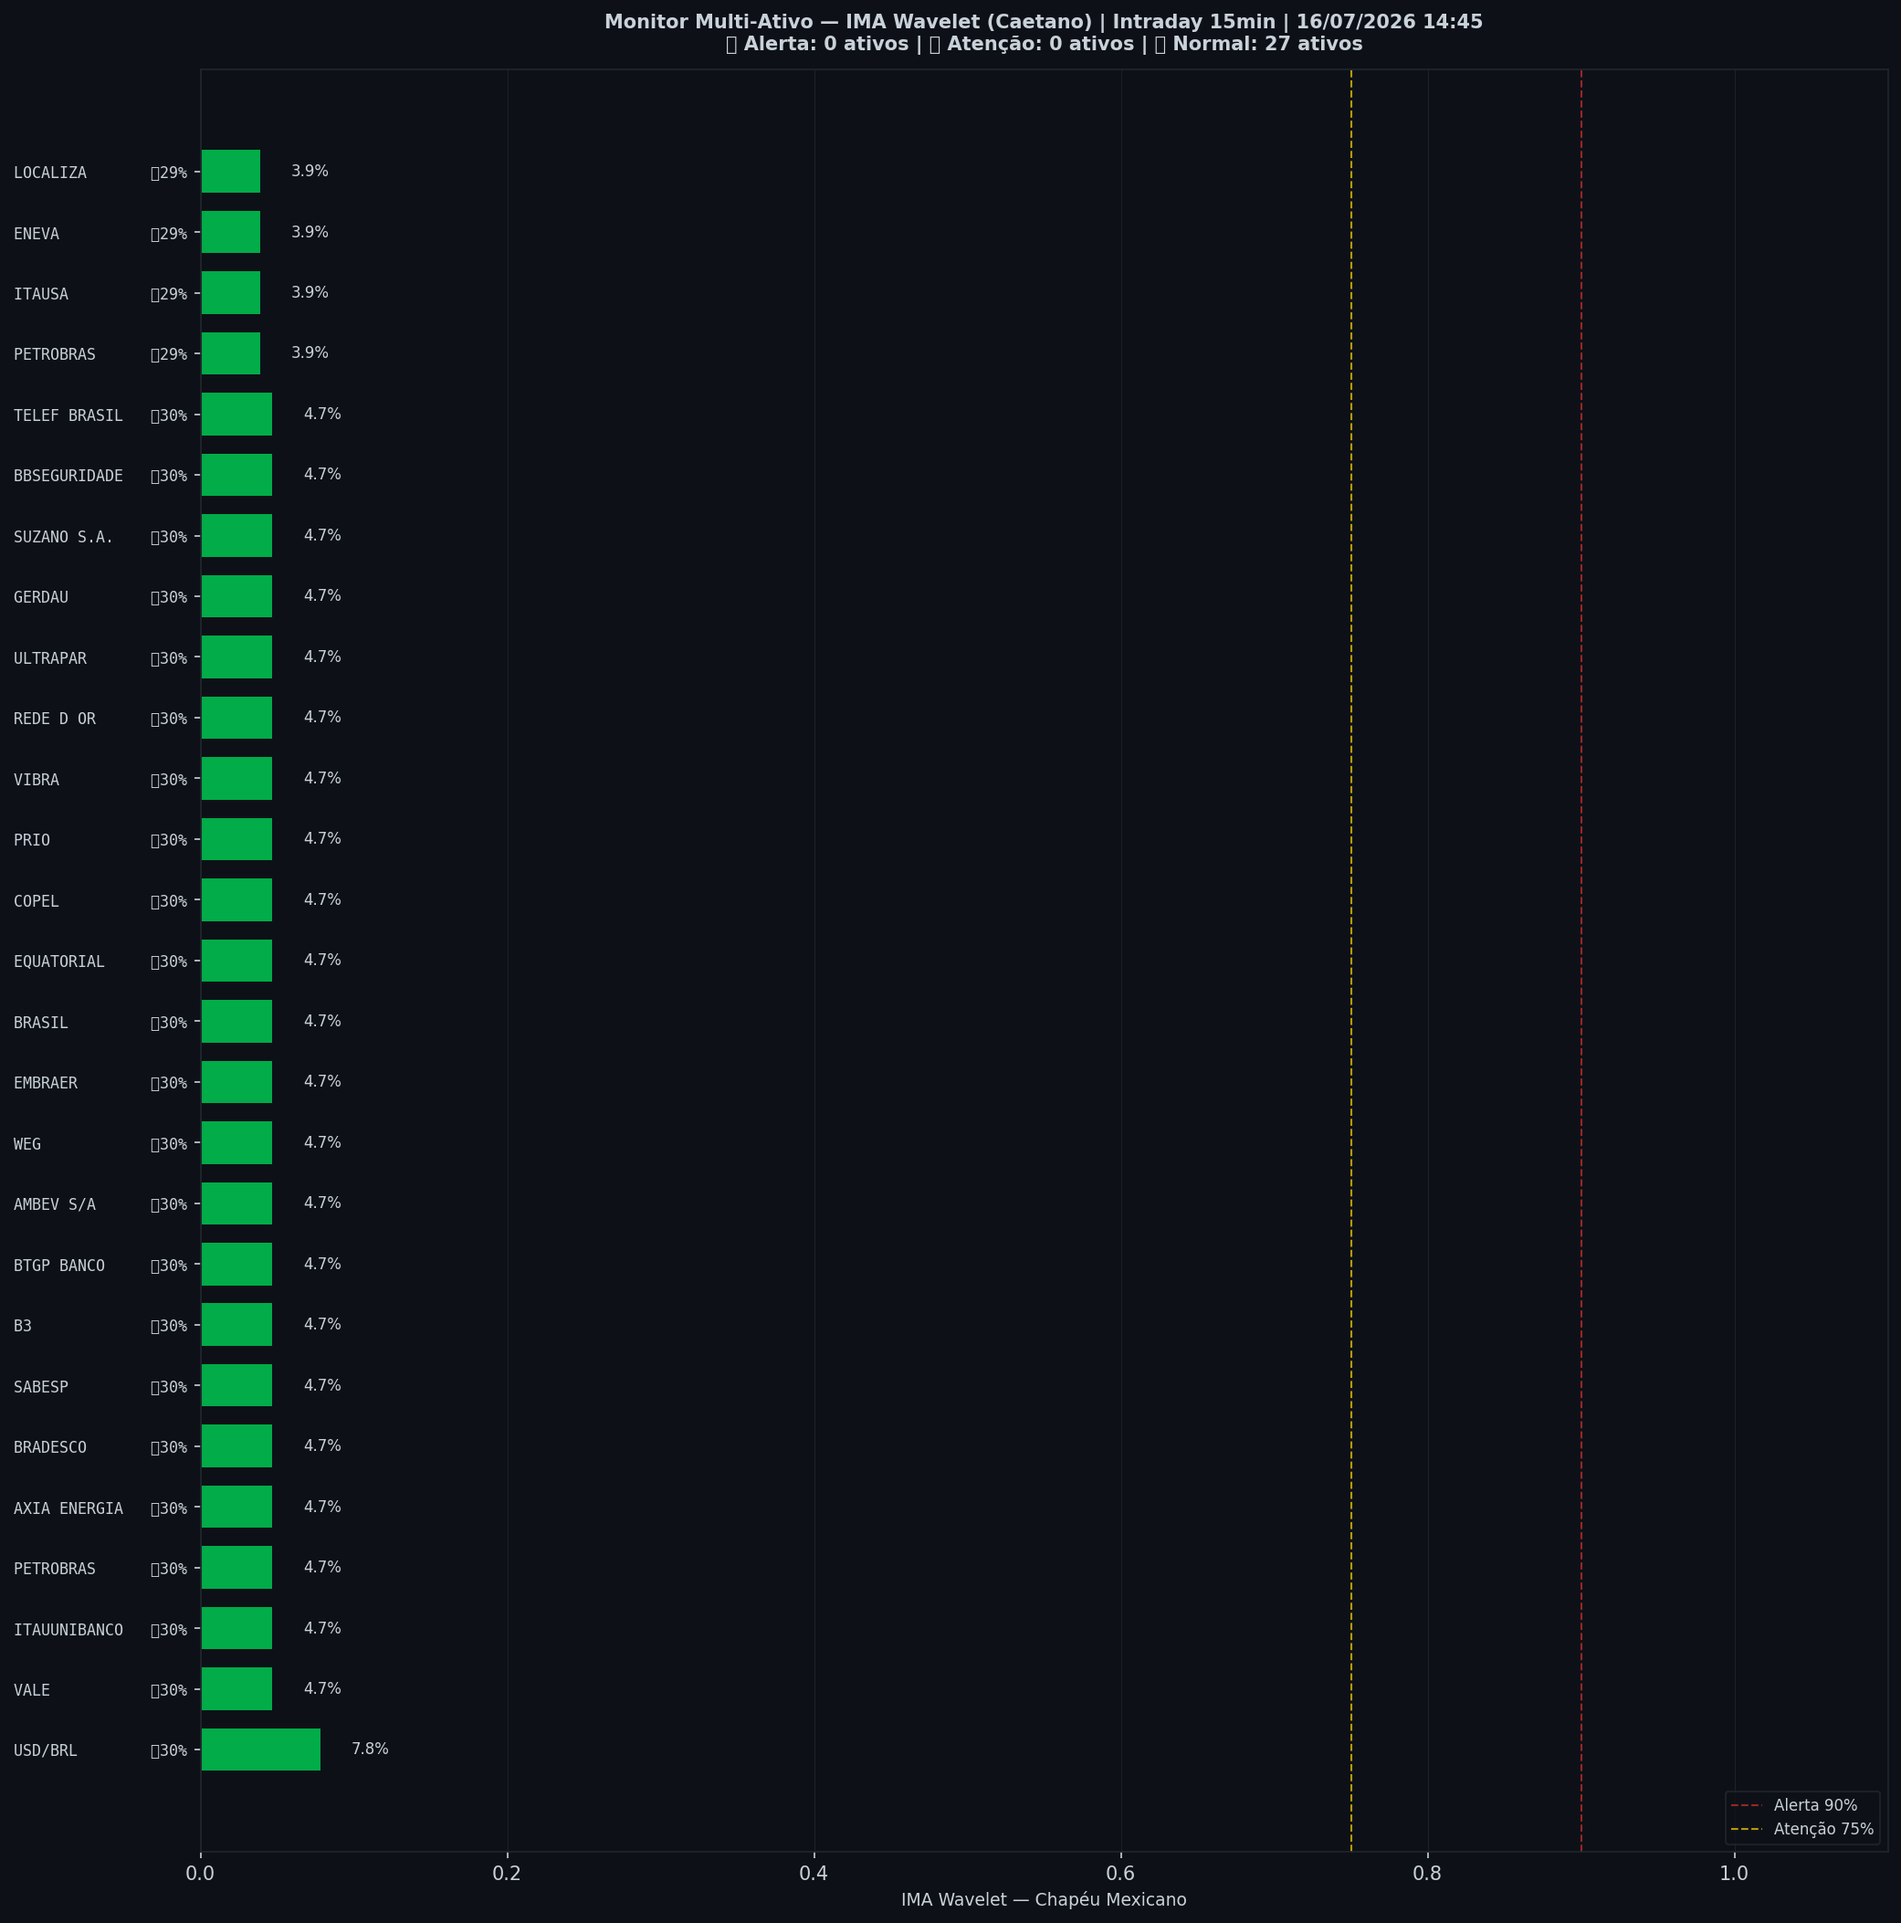
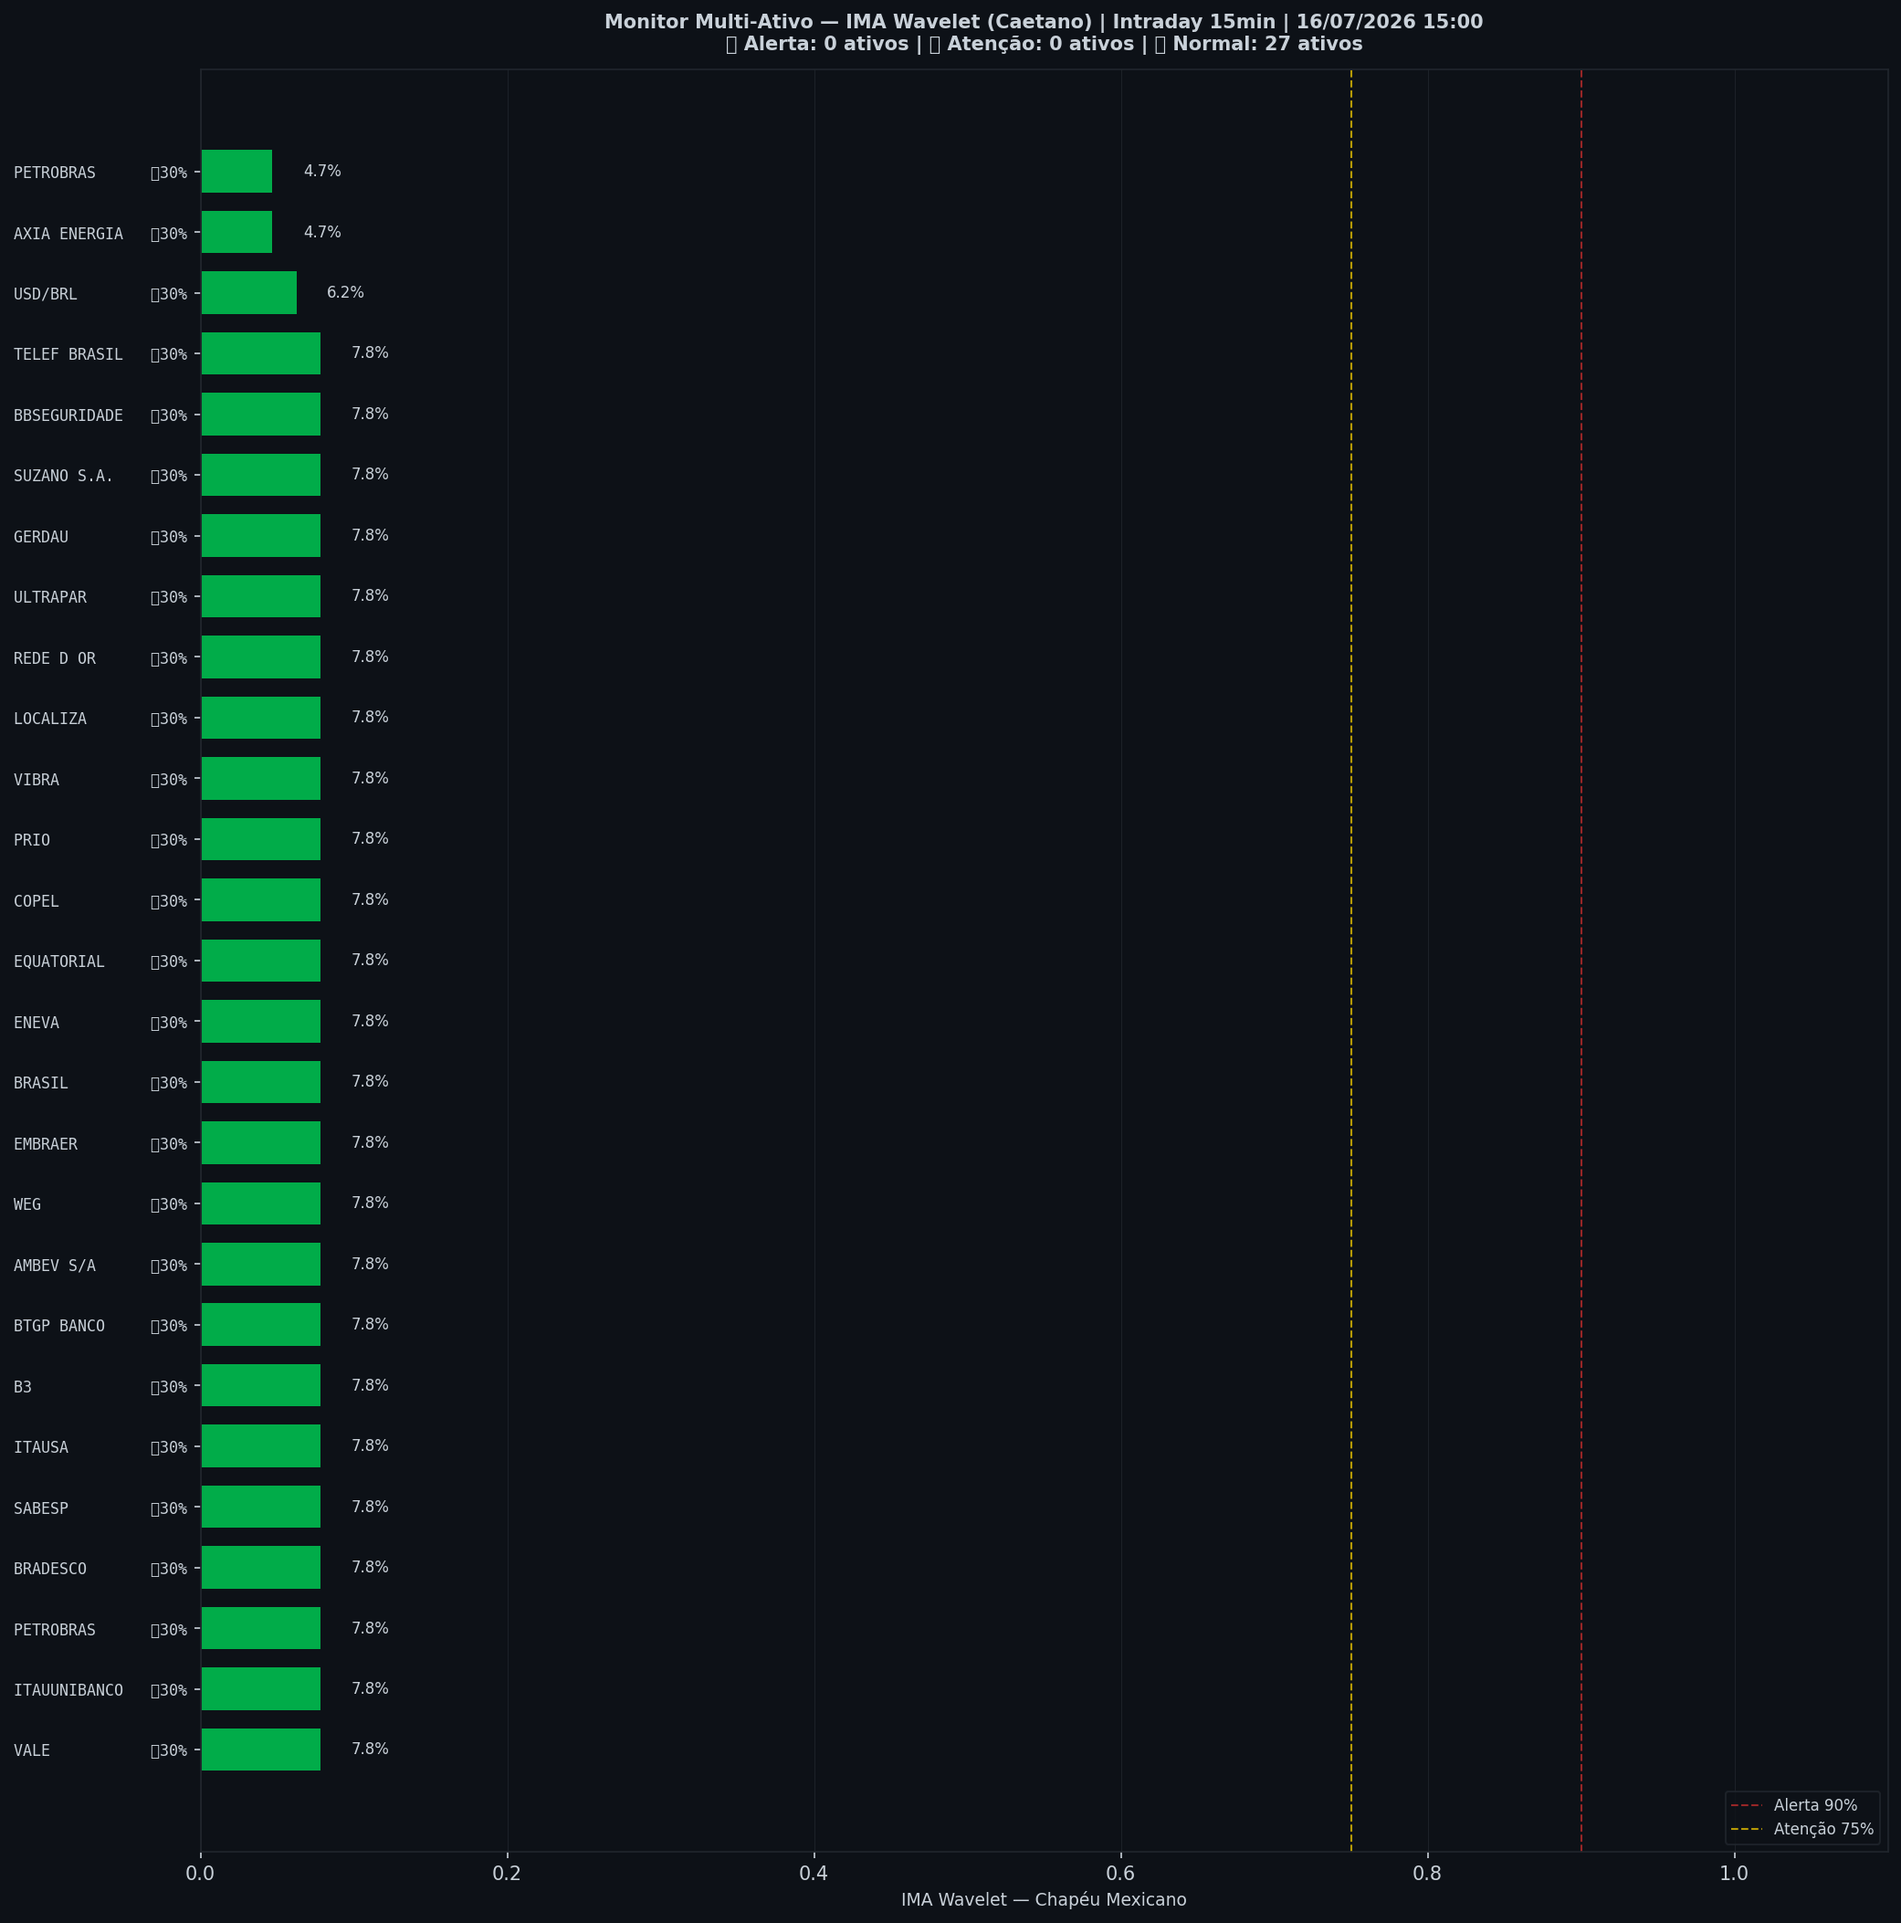
🤖 Auto: Sinal 16/07/2026 15:00

Changed region(s): [[0.1249, 0.0617, 0.1873, 0.8951], [0.0312, 0.8333, 0.0624, 0.8642]]

diff --git a/content/intraday/2026-07-16.md b/content/intraday/2026-07-16.md
@@ -1,20 +1,20 @@
 ---
-title: "🟢 Intraday 16/07/2026 14:00 BRT — VERDE"
+title: "🟢 Intraday 16/07/2026 14:15 BRT — VERDE"
 date: 2026-07-16
 tags: [intraday]
 ---
 
-> [!success] 🟢 **VERDE** — Risco 0% · ＝ +0 p.p. vs leitura anterior
+> [!success] 🟢 **VERDE** — Risco 1% · ▲ +1 p.p. vs leitura anterior
 > `░░░░░░░░░░░░░░░░░░░░`
 > Mercado sem sinais relevantes de estresse.
 
 
 | Indicador | Valor |
 |---|---|
-| 🔴 ζ Crash — severidade da queda em curso | **0%** |
-| 🔵 ζ Entrada — estrutura de fundo | 4% |
+| 🔴 ζ Crash — severidade da queda em curso | **1%** |
+| 🔵 ζ Entrada — estrutura de fundo | 8% |
 | 🫧 LPPL DS-Confidence | 0% |
-| 📊 Ibovespa | 174.141 pts |
+| 📊 Ibovespa | 174.100 pts |
 
 ![Gráfico do sinal](../graficos/sinal_intraday.png)
 
@@ -22,6 +22,7 @@ tags: [intraday]
 
 | Data | Zona | Risco | IMA Crash | Entrada | LPPL |
 |---|---|---|---|---|---|
+| 2026-07-16 14:15 | 🟢 VERDE | **1%** | 1% | 8% | 0% |
 | 2026-07-16 14:00 | 🟢 VERDE | **0%** | 0% | 4% | 0% |
 | 2026-07-16 13:45 | 🟢 VERDE | **0%** | 0% | 2% | 0% |
 | 2026-07-16 13:30 | 🟢 VERDE | **2%** | 2% | 1% | 0% |
@@ -51,7 +52,6 @@ tags: [intraday]
 | 2026-07-15 14:30 | 🟢 VERDE | **33%** | 33% | 2% | 0% |
 | 2026-07-15 14:15 | 🟢 VERDE | **33%** | 33% | 0% | 0% |
 | 2026-07-15 14:00 | 🟢 VERDE | **32%** | 32% | 0% | 0% |
-| 2026-07-15 13:45 | 🟢 VERDE | **34%** | 34% | 0% | 0% |
 
 ## Monitor Multi-Ativo
 
@@ -59,37 +59,37 @@ tags: [intraday]
 
 | Zona | Ativo | Setor | IMA Crash | IMA Entrada |
 |---|---|---|---|---|
-| 🟢 | **USD/BRL** | Câmbio | 7.8% | 29.7% |
-| 🟢 | **VALE** | Mineração | 4.7% | 30.5% |
-| 🟢 | **ITAUUNIBANCO** | Financeiro | 4.7% | 30.5% |
-| 🟢 | **PETROBRAS** | Petróleo | 4.7% | 30.5% |
+| 🟢 | **VALE** | Mineração | 7.8% | 29.7% |
+| 🟢 | **ITAUUNIBANCO** | Financeiro | 7.8% | 29.7% |
+| 🟢 | **PETROBRAS** | Petróleo | 7.8% | 29.7% |
+| 🟢 | **BRADESCO** | Financeiro | 7.8% | 29.7% |
+| 🟢 | **SABESP** | Saneamento | 7.8% | 29.7% |
+| 🟢 | **ITAUSA** | Financeiro | 7.8% | 29.7% |
+| 🟢 | **B3** | Financeiro | 7.8% | 29.7% |
+| 🟢 | **BTGP BANCO** | Financeiro | 7.8% | 29.7% |
+| 🟢 | **AMBEV S/A** | Consumo | 7.8% | 29.7% |
+| 🟢 | **WEG** | Industrial | 7.8% | 29.7% |
+| 🟢 | **EMBRAER** | Outros | 7.8% | 29.7% |
+| 🟢 | **BRASIL** | Financeiro | 7.8% | 29.7% |
+| 🟢 | **ENEVA** | Energia | 7.8% | 29.7% |
+| 🟢 | **EQUATORIAL** | Energia | 7.8% | 29.7% |
+| 🟢 | **COPEL** | Energia | 7.8% | 29.7% |
+| 🟢 | **PRIO** | Petróleo | 7.8% | 29.7% |
+| 🟢 | **VIBRA** | Energia | 7.8% | 29.7% |
+| 🟢 | **LOCALIZA** | Aluguel | 7.8% | 29.7% |
+| 🟢 | **REDE D OR** | Saúde | 7.8% | 29.7% |
+| 🟢 | **ULTRAPAR** | Outros | 7.8% | 29.7% |
+| 🟢 | **GERDAU** | Siderurgia | 7.8% | 29.7% |
+| 🟢 | **SUZANO S.A.** | Papel/Celulose | 7.8% | 29.7% |
+| 🟢 | **BBSEGURIDADE** | Financeiro | 7.8% | 29.7% |
+| 🟢 | **TELEF BRASIL** | Outros | 7.8% | 29.7% |
+| 🟢 | **USD/BRL** | Câmbio | 6.2% | 29.7% |
 | 🟢 | **AXIA ENERGIA** | Energia | 4.7% | 30.5% |
-| 🟢 | **BRADESCO** | Financeiro | 4.7% | 30.5% |
-| 🟢 | **SABESP** | Saneamento | 4.7% | 30.5% |
-| 🟢 | **B3** | Financeiro | 4.7% | 30.5% |
-| 🟢 | **BTGP BANCO** | Financeiro | 4.7% | 30.5% |
-| 🟢 | **AMBEV S/A** | Consumo | 4.7% | 30.5% |
-| 🟢 | **WEG** | Industrial | 4.7% | 30.5% |
-| 🟢 | **EMBRAER** | Outros | 4.7% | 30.5% |
-| 🟢 | **BRASIL** | Financeiro | 4.7% | 30.5% |
-| 🟢 | **EQUATORIAL** | Energia | 4.7% | 30.5% |
-| 🟢 | **COPEL** | Energia | 4.7% | 30.5% |
-| 🟢 | **PRIO** | Petróleo | 4.7% | 30.5% |
-| 🟢 | **VIBRA** | Energia | 4.7% | 30.5% |
-| 🟢 | **REDE D OR** | Saúde | 4.7% | 30.5% |
-| 🟢 | **ULTRAPAR** | Outros | 4.7% | 30.5% |
-| 🟢 | **GERDAU** | Siderurgia | 4.7% | 30.5% |
-| 🟢 | **SUZANO S.A.** | Papel/Celulose | 4.7% | 30.5% |
-| 🟢 | **BBSEGURIDADE** | Financeiro | 4.7% | 30.5% |
-| 🟢 | **TELEF BRASIL** | Outros | 4.7% | 30.5% |
-| 🟢 | **PETROBRAS** | Petróleo | 3.9% | 28.9% |
-| 🟢 | **ITAUSA** | Financeiro | 3.9% | 28.9% |
-| 🟢 | **ENEVA** | Energia | 3.9% | 28.9% |
-| 🟢 | **LOCALIZA** | Aluguel | 3.9% | 28.9% |
+| 🟢 | **PETROBRAS** | Petróleo | 4.7% | 30.5% |
 
 ![Monitor multi-ativo](../graficos/multi_intraday.png)
 
-*Página atualizada em 16/07/2026 14:45 BRT (leitura da barra de 2026-07-16 14:00 BRT).*
+*Página atualizada em 16/07/2026 15:00 BRT (leitura da barra de 2026-07-16 14:15 BRT).*
 
 > [!info]- Como interpretar (clique para expandir)
 > - **ζ Crash**: fração dos coeficientes wavelet acima do corte (Caetano & Yoneyama 2009). Escala absoluta: ζ=0,90 = 90% dos coeficientes anômalos — historicamente, quedas com ζ≥0,90 foram mais fundas e mais longas. **Mede a severidade do movimento em curso, não prevê o início da queda.**

diff --git a/content/index.md b/content/index.md
@@ -8,19 +8,19 @@ tags: [home]
 
 Monitoramento diário e intraday do Ibovespa — **IMA Wavelet** (Prof. Marco Antonio Leonel Caetano, ITA/INSPER) + **LPPL DS-Confidence** (Prof. Didier Sornette, ETH-Zurich).
 
-*Última atualização: 16/07/2026 14:45 BRT · ^BVSP · Intraday 15min · v4*
+*Última atualização: 16/07/2026 15:00 BRT · ^BVSP · Intraday 15min · v4*
 
-> [!success] 🟢 **VERDE** — Risco 0% · ＝ +0 p.p. vs leitura anterior
+> [!success] 🟢 **VERDE** — Risco 1% · ▲ +1 p.p. vs leitura anterior
 > `░░░░░░░░░░░░░░░░░░░░`
 > Mercado sem sinais relevantes de estresse.
 
 
 | Indicador | Valor |
 |---|---|
-| 🔴 ζ Crash — severidade da queda em curso | **0%** |
-| 🔵 ζ Entrada — estrutura de fundo | 4% |
+| 🔴 ζ Crash — severidade da queda em curso | **1%** |
+| 🔵 ζ Entrada — estrutura de fundo | 8% |
 | 🫧 LPPL DS-Confidence | 0% |
-| 📊 Ibovespa | 174.141 pts |
+| 📊 Ibovespa | 174.100 pts |
 
 **Multi-ativo:** 0% em tensão (0🔴 0🟡 de 27 ativos)
 
@@ -32,7 +32,7 @@ Monitoramento diário e intraday do Ibovespa — **IMA Wavelet** (Prof. Marco An
 
 | Data | Zona | Risco | IMA | LPPL |
 |---|---|---|---|---|
-| [16 Jul 2026](diario/2026-07-16) | 🟢 VERDE | **0%** | 0% | 0% |
+| [16 Jul 2026](diario/2026-07-16) | 🟢 VERDE | **1%** | 1% | 0% |
 | [15 Jul 2026](diario/2026-07-15) | 🟢 VERDE | **56%** | 56% | 0% |
 
 ## Navegação

diff --git a/content/historico.md b/content/historico.md
@@ -7,6 +7,7 @@ tags: [historico]
 
 | Data | Modo | Zona | Risco | IMA | LPPL |
 |---|---|---|---|---|---|
+| 2026-07-16 14:15 | intraday | 🟢 VERDE | 1% | 1% | 0% |
 | 2026-07-16 14:00 | intraday | 🟢 VERDE | 0% | 0% | 0% |
 | 2026-07-16 13:45 | intraday | 🟢 VERDE | 0% | 0% | 0% |
 | 2026-07-16 13:30 | intraday | 🟢 VERDE | 2% | 2% | 0% |
